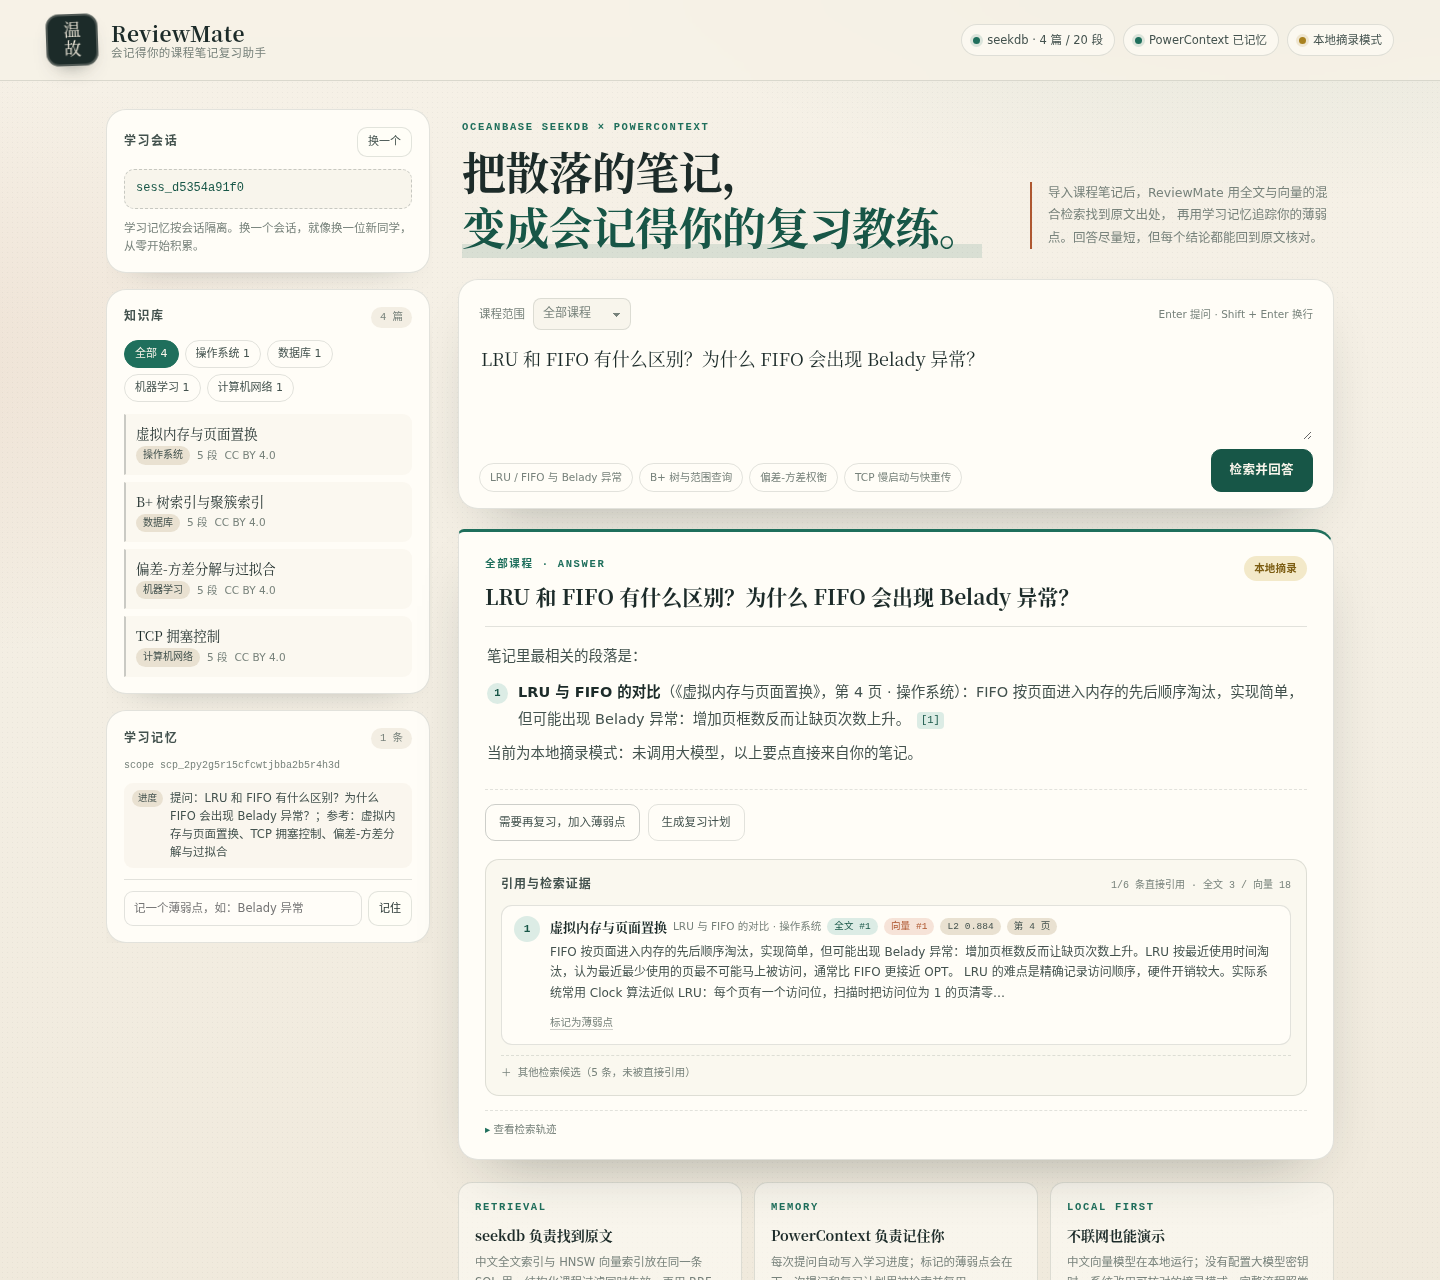
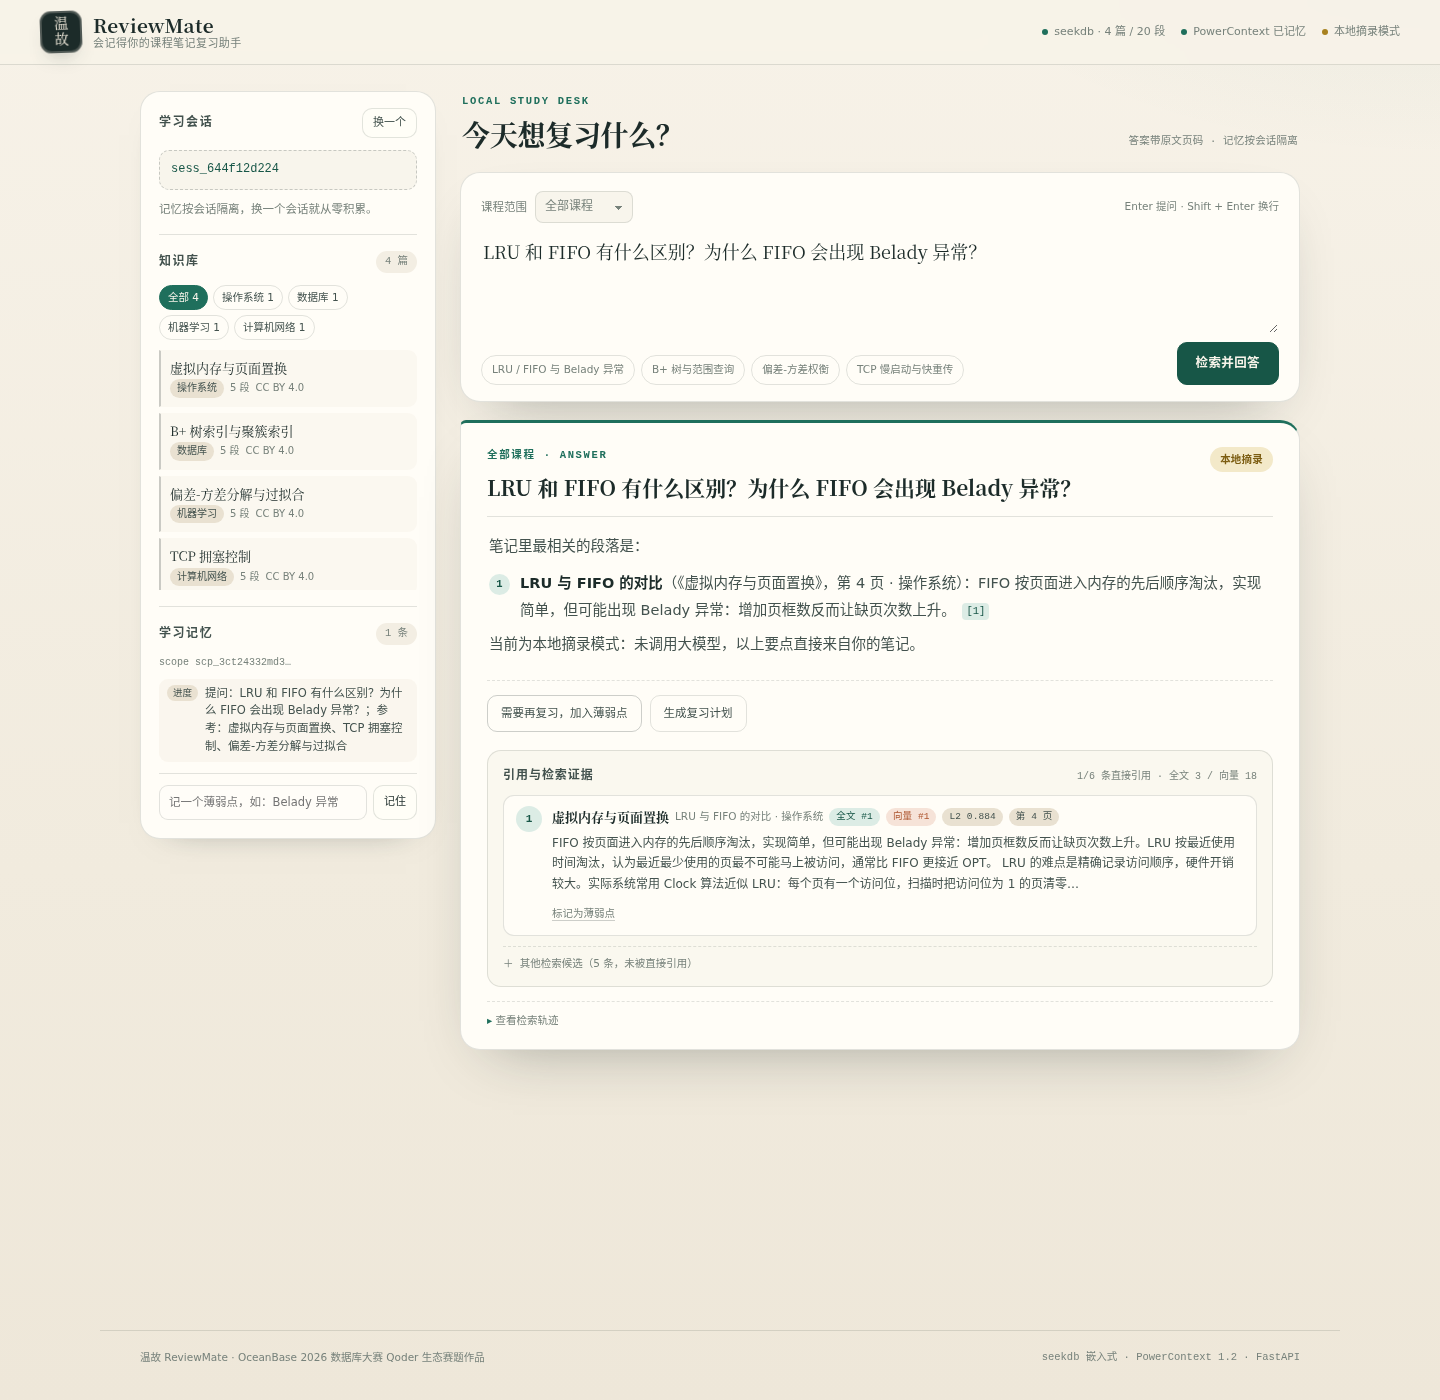
chore(qoder): refresh showcase screenshots and commit reference
- site/assets 换成新工作台界面的四张截图（首页、回答、复习计划、移动端）
- 文档中的项目内容 commit 更新为 56d8579e

Changed region(s): [[0.0312, 0.0, 0.9375, 1.0], [0.7188, 0.0, 0.9688, 0.0312], [0.25, 0.0625, 0.2812, 0.0938]]

diff --git a/qoder/reviewmate/docs/submission-checklist.md b/qoder/reviewmate/docs/submission-checklist.md
@@ -7,7 +7,7 @@
 | # | 材料 | 当前状态 | 提交值 / 位置 |
 |---|---|---|---|
 | 1 | 项目网站网址 | 已发布，公开访问已验证 | <https://reviewmate-5967u15pefr.qoder.zone> |
-| 2 | 代码仓库 | 已推送 | <https://github.com/ycl-berserk/2026oceanbase-powercontext>（私有；分支 `qoder-reviewmate`，目录 `qoder/reviewmate/`，项目内容 commit `d0f8ed2f`；评审需授权） |
+| 2 | 代码仓库 | 已推送 | <https://github.com/ycl-berserk/2026oceanbase-powercontext>（私有；分支 `qoder-reviewmate`，目录 `qoder/reviewmate/`，项目内容基线 commit `56d8579e`；评审需授权） |
 | 3 | 运行说明 | 已完成 | `README.md`「快速开始」 |
 | 4 | 验证样例 | 已完成并跑通 | `docs/verification.md`、`scripts/verify.py`、`data/verification/report.json` |
 | 5 | Qoder 开发记录 | 已完成（4 张截图，Qoder CLI 会话） | `docs/qoder-dev-log.md`、`docs/qoder/` |
@@ -74,7 +74,7 @@ git ls-files | grep -Ei '\.env$|secret|credential|\.key$|\.pem$'
 - [x] 按 README 启动链路已跑通：PowerContext → ingest → serve。
 - [x] 无痕方式复核线上站点：首页、样式、图片 200，仓库入口已上线。
 - [ ] 提交平台填写：站点网址、仓库地址、Qoder UID，并上传其余材料。
-- [x] 记录版本 commit：项目内容 `d0f8ed2f`，文档回填 `449b6853`；本地材料保留在 `qoder/reviewmate/`。
+- [x] 记录版本 commit：项目内容基线 `56d8579e`，文档回填 `449b6853`；本地材料保留在 `qoder/reviewmate/`。
 
 ## 七、提交信息模板
 
@@ -82,7 +82,7 @@ git ls-files | grep -Ei '\.env$|secret|credential|\.key$|\.pem$'
 项目名称：温故 ReviewMate
 一句话：seekdb 混合检索找到原文，PowerContext 记住薄弱点，让课程复习接着上次继续。
 项目网站：https://reviewmate-5967u15pefr.qoder.zone
-代码仓库：https://github.com/ycl-berserk/2026oceanbase-powercontext（分支 qoder-reviewmate，目录 qoder/reviewmate/，项目内容 commit d0f8ed2f）
+代码仓库：https://github.com/ycl-berserk/2026oceanbase-powercontext（分支 qoder-reviewmate，目录 qoder/reviewmate/，项目内容基线 commit 56d8579e）
 Qoder UID：aliyun-1585490604181694
 验证入口：make verify（12 项自动检查）
 技术分工：seekdb = 全文 + 向量混合检索 / 检索日志 / 会话映射；PowerContext = 学习进度、薄弱点与复习计划记忆

diff --git a/qoder/reviewmate/README.md b/qoder/reviewmate/README.md
@@ -195,7 +195,7 @@ docs/              架构、验证、Qoder 开发记录与提交清单
 - 站点源码：`site/`；更新后需重新发布才会同步到线上。
 - 提交仓库：<https://github.com/ycl-berserk/2026oceanbase-powercontext>（私有，评审需授权访问）。
 - 提交分支：`qoder-reviewmate`，基于 `origin/2026-competition-ecosystem`；项目路径：`qoder/reviewmate/`。
-- 提交 commit：项目内容基线 `d0f8ed2f`；分支最新提交包含仓库地址与文档回填。
+- 提交 commit：项目内容基线 `56d8579e`；分支最新提交包含仓库地址与文档回填。
 - 提交材料清单：见 `docs/submission-checklist.md`。
 - Qoder 账号 UID：`aliyun-1585490604181694`。
 - 配置示例均为占位值，不包含真实 API Key、密码或其他凭据。

diff --git a/qoder/reviewmate/docs/qoder-dev-log.md b/qoder/reviewmate/docs/qoder-dev-log.md
@@ -103,5 +103,5 @@ make verify
 ## 提交前还需作者完成
 
 1. 开发记录截图已放入 `docs/qoder/`（四张，见文首表格），来自 Qoder CLI 会话；如需补充录屏可另加 `docs/qoder/demo.mp4`。
-2. 项目已复制到比赛仓库分支 `qoder-reviewmate` 的 `qoder/reviewmate/`，项目内容 commit 为 `d0f8ed2f`。
+2. 项目已复制到比赛仓库分支 `qoder-reviewmate` 的 `qoder/reviewmate/`，项目内容基线 commit 为 `56d8579e`。
 3. 用无痕窗口复核代码仓库权限与运行说明。

diff --git a/qoder/README.md b/qoder/README.md
@@ -6,7 +6,7 @@
 |---|---|
 | 项目目录 | `qoder/reviewmate/` |
 | 分支 | `qoder-reviewmate`（基于 `origin/2026-competition-ecosystem`） |
-| 项目内容提交 | `d0f8ed2f` |
+| 项目内容提交 | `56d8579e` |
 | 项目网站 | <https://reviewmate-5967u15pefr.qoder.zone> |
 | Qoder UID | `aliyun-1585490604181694` |
 | 运行说明 | `qoder/reviewmate/README.md`「快速开始」 |
